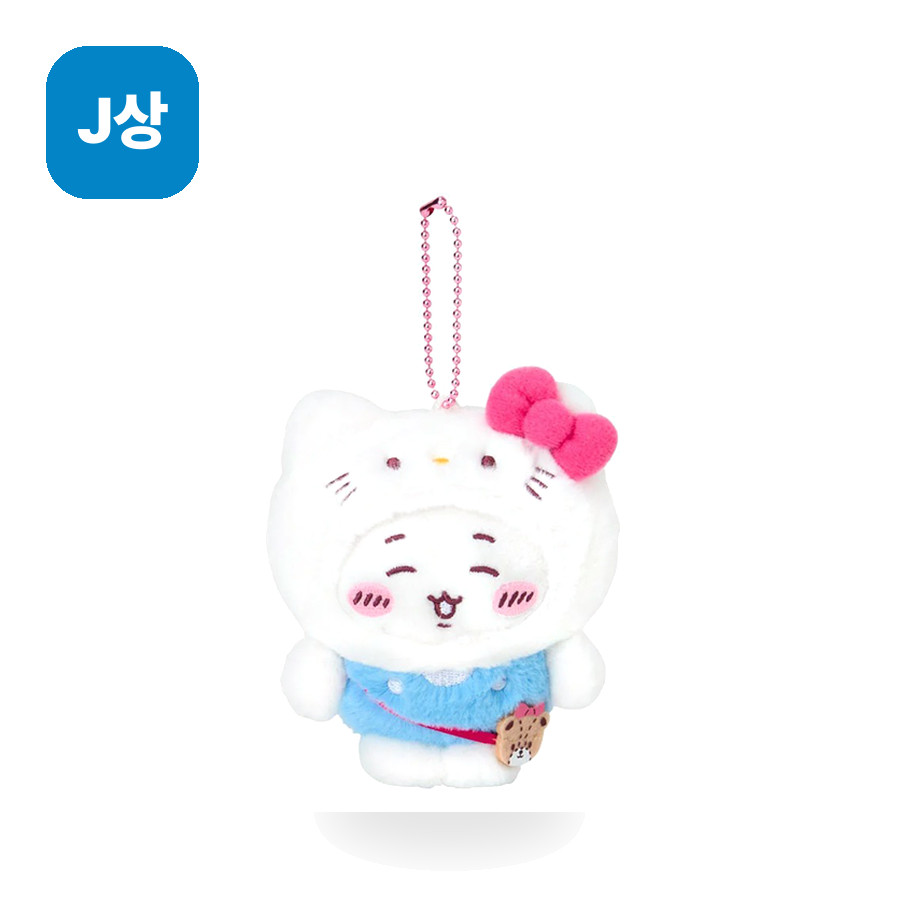
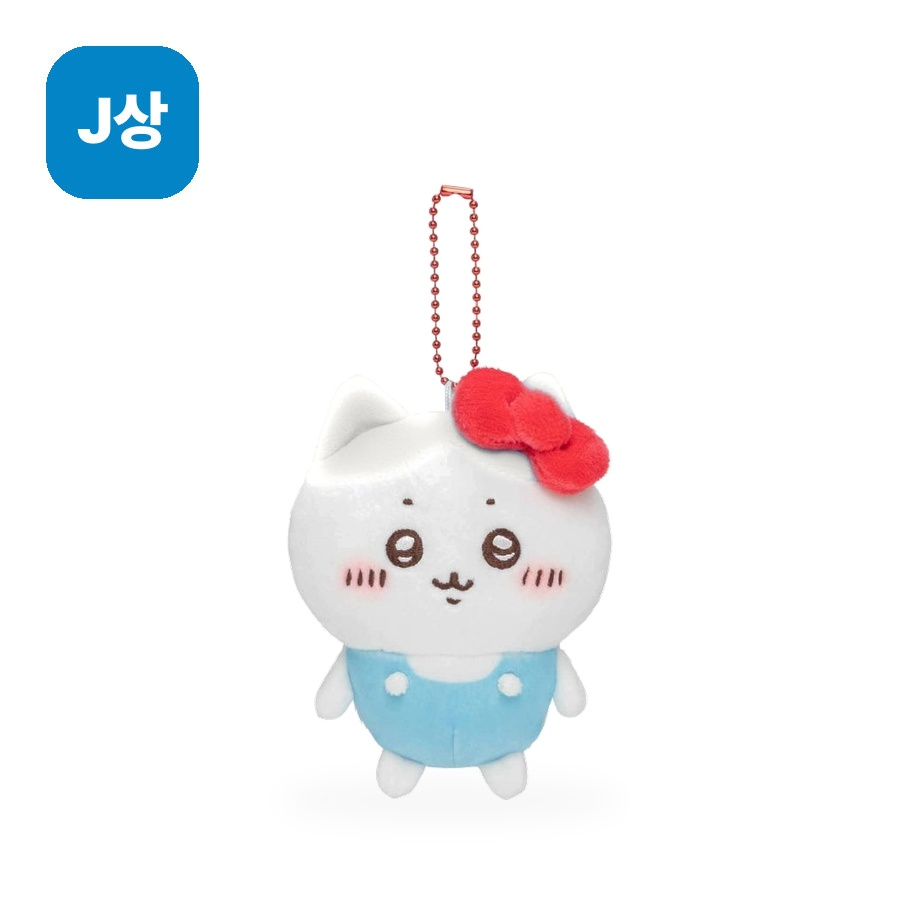
v4.4.23 크리스마스 판 J상 이미지 교체 — 키티 후드 버전 → 실물(후드 없는 빨간 리본+연하늘 멜빵) 일치 카드·라인업, COVER_VER 4.4.23

Changed region(s): [[0.3111, 0.1867, 0.6844, 0.9022], [0.1556, 0.1244, 0.1867, 0.1556]]

diff --git a/index.html b/index.html
@@ -22,7 +22,7 @@
 <link rel="stylesheet" href="https://fonts.googleapis.com/css2?family=Black+Han+Sans&family=Do+Hyeon&display=swap">
 <link rel="stylesheet" href="https://cdn.jsdelivr.net/gh/orioncactus/pretendard@v1.3.9/dist/web/variable/pretendardvariable-dynamic-subset.min.css">
 <link rel="preconnect" href="https://t1.kakaocdn.net" crossorigin>
-<link rel="stylesheet" href="assets/styles.css?v=4.4.22">
+<link rel="stylesheet" href="assets/styles.css?v=4.4.23">
 <script type="application/ld+json">
 {"@context":"https://schema.org","@type":"WebSite","name":"쿠지킹","alternateName":"KUJIKING","url":"https://kujiking.co.kr/"}
 </script>
@@ -900,7 +900,7 @@
       <button type="button" data-action="open-policy" data-policy="probability">확률 공시</button>
     </nav>
     <p class="footer-note">본 상품은 무작위 추첨 상품입니다. 교환 코드 사용(개봉) 후에는 청약철회가 제한됩니다. <b>만 19세 이상 성인 전용 서비스</b>로, 미성년자는 이용할 수 없습니다.</p>
-    <p class="footer-copy">© 2026 쿠지킹. All rights reserved. · <span class="proto-tag" id="protoTag">v4.4.22</span></p>
+    <p class="footer-copy">© 2026 쿠지킹. All rights reserved. · <span class="proto-tag" id="protoTag">v4.4.23</span></p>
   </div>
 </footer>
 
@@ -943,6 +943,6 @@
 </div>
 
 <script src="assets/config.js?v=3.0.2"></script>
-<script src="assets/app.js?v=4.4.22" defer></script>
+<script src="assets/app.js?v=4.4.23" defer></script>
 </body>
 </html>

diff --git a/assets/app.js b/assets/app.js
@@ -1,5 +1,5 @@
 /* =========================================================
-   쿠지킹 KUJIKING — app.js  (v4.4.22, vanilla · no build step)
+   쿠지킹 KUJIKING — app.js  (v4.4.23, vanilla · no build step)
    ---------------------------------------------------------
    · 해시 라우팅: #/  #/board/:id  #/my  #/winners  #/fairness  #/admin
    · 회원가입/로그인, 내 쿠폰함, 내 보관함(배송·포인트 전환),
@@ -128,7 +128,7 @@
   }
   var h = escapeHtml;
   /* 실물 커버 등 상품 이미지 캐시 갱신용 버전 (커버 교체 시 올린다) */
-  var COVER_VER = '4.4.0';
+  var COVER_VER = '4.4.23';
   /* 판마다 지정한 스토어 링크가 없을 때 쓰는 기본 스마트스토어 상품 주소 */
   var DEFAULT_STORE_URL = STORE_PRODUCT_URL;
   /* P상(굿즈 포인트) 카드 기본 이미지 — 판에 P상 이미지가 없으면 이 이미지를 쓴다 */

diff --git a/README.md b/README.md
@@ -10,6 +10,15 @@
 
 ---
 
+## v4.4.23 — 크리스마스 판 J상 이미지 교체 (산리오 키티 치이카와 · 실물 일치)
+
+- **사용자 지적**: J상 카드에 **키티 후드를 쓴** 신버전(2025 なりきり 콜라보)이 들어가 있었는데, 기남 님 실물은 **후드 없이 머리 옆 빨간 리본 + 연하늘 멜빵바지**인 2022 라인 디자인이었다(`IMG_0347` 빨간 동그라미 = 오른쪽 인형).
+- **이미지**: `assets/products/xmas-chiikawa/tier_j.jpg` — 900×900 순백(#FFFFFF) 배경, 좌상단 파란 `J상` 배지(기존 카드에서 그대로 복사), 바닥 연한 그림자. 인형은 2022 `ちいかわ×サンリオキャラクターズ ぷちミニマスコット(ハチワレ・ハローキティ)` 공식 상품컷(ちいかわマーケット 4589468458418)을 기준으로 **머리 색만 흰색으로** 맞춰 실물(치이카와×헬로키티)과 같은 디자인으로 만들었다 — 같은 시리즈의 치이카와×키티 단독 공식컷은 존재하지 않는다(2022 공식 라인업은 치이카와=マイメロディ, 하치와레=ハローキティ 짝).
+- **라인업**: `assets/products/xmas-chiikawa/lineup.jpg` J상 썸네일도 새 카드와 동일한 인형으로 교체(배지·라벨·다른 26등급·라스트원은 그대로).
+- **버전**: `COVER_VER` 4.4.23, `index.html` 자산 쿼리 4.4.23, `protoTag` v4.4.23, 헤더 4.4.23.
+
+---
+
 ## v4.4.22 — 관리자 `배송 · 출고`에 합배송 묶인 상품 전체 표시
 
 - **사용자 피드백**: "합배송요청3개가 먼지안보이는데?" — 관리자 배송 카드에는 `[합배송 3건] 대표상품 외 2건`만 보여 나머지 상품을 알 수 없었다(실제 신청: 주효빈 님 I상·J상·T상 3건).
